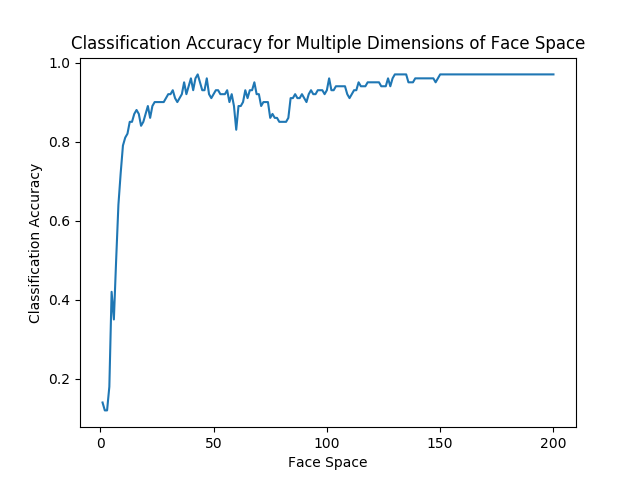
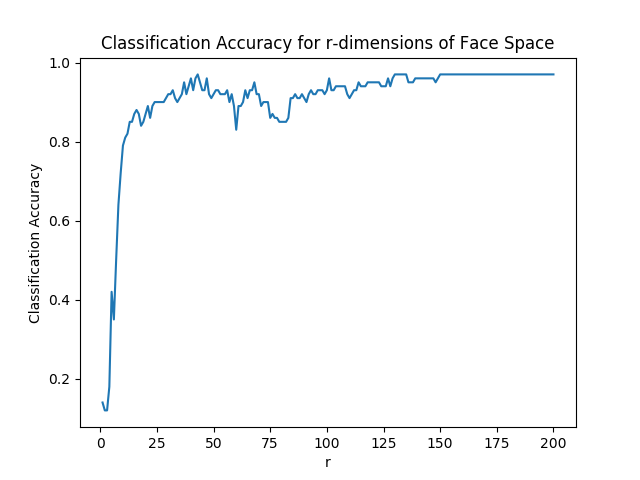
change axis labels on classification graph

diff --git a/eigenFaces.py b/eigenFaces.py
@@ -121,10 +121,10 @@ def plotClassificationAccuracy(train_data, test_data, VT, train_labels, test_lab
 		accuracies.append(score)
 	plt.figure()
 	plt.plot(range(1, 201), np.array(accuracies))
-	plt.xticks(range(0,201,50))
-	plt.xlabel('Face Space')
+	plt.xticks(range(0,201,25))
+	plt.xlabel('r')
 	plt.ylabel('Classification Accuracy')
-	plt.title('Classification Accuracy for Multiple Dimensions of Face Space')
+	plt.title('Classification Accuracy for r-dimensions of Face Space')
 	plt.savefig('face_recognition_classification_accuracy.png')
 	plt.close()
 
